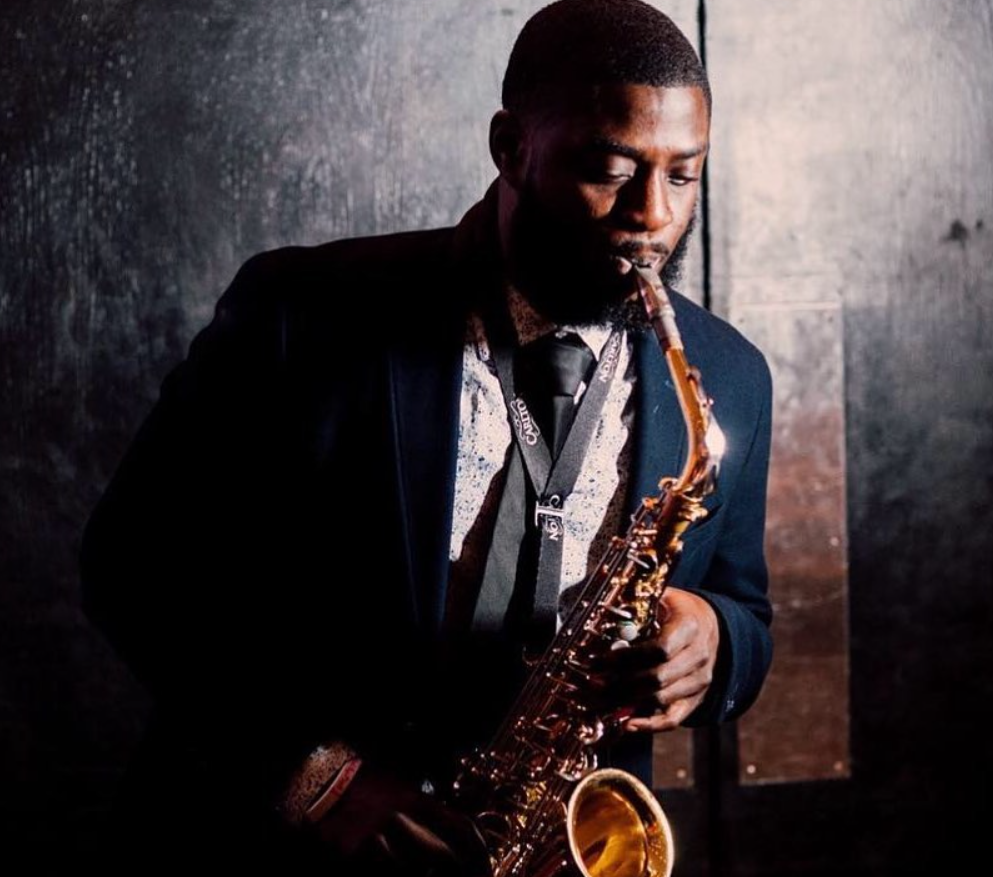
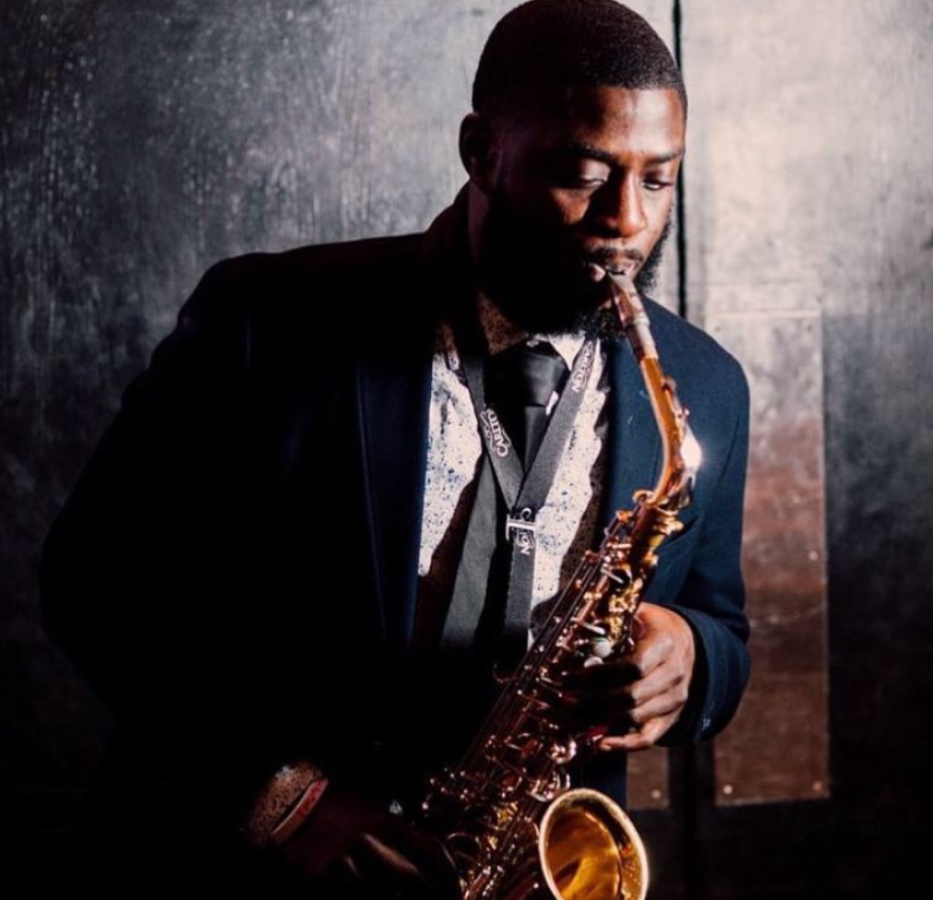
fixed size of pics

diff --git a/src/Gallery.php b/src/Gallery.php
@@ -56,8 +56,8 @@ h1 {
 
 #demo {
 	margin: auto;
-	width: 100%;
-	height: 100%;
+	width: 80%;
+	height: 80%;
 }
 
 .row {
@@ -152,7 +152,7 @@ include_once "header.php";
 						</div>
 						<div class="carousel-item">
 
-							<img src="photo/pic7.jpg" alt="Ottawa" width="1100" height="500">
+							<img src="photo/pic6.jpg" alt="Ottawa" width="1100" height="500">
 							<div class="carousel-caption"></div>
 						</div>
 					</div>
